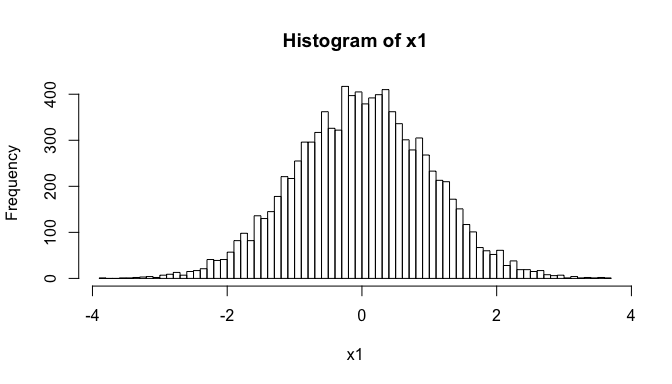
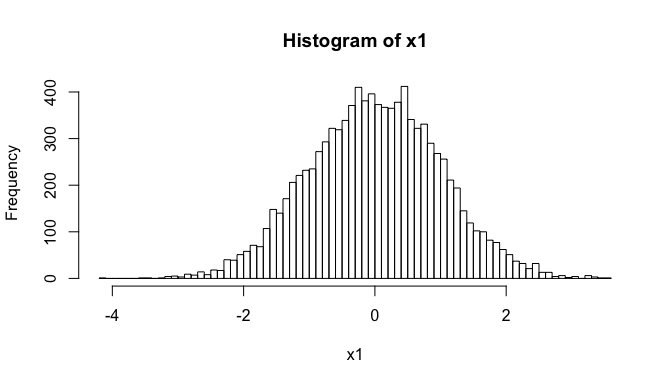
recompiled

diff --git a/stat-R_2020/practicals/R-structures/basic_R-structures.html b/stat-R_2020/practicals/R-structures/basic_R-structures.html
@@ -404,16 +404,16 @@ div.tocify {
 <span id="cb3-9"><a href="#cb3-9"></a><span class="co">## Print the results rounded at 2 decimals</span></span>
 <span id="cb3-10"><a href="#cb3-10"></a><span class="kw">print</span>(<span class="kw">round</span>(matAleatoire, <span class="dt">digits =</span> <span class="dv">2</span>))</span></code></pre></div>
 <pre><code>       [,1]  [,2]  [,3]  [,4]  [,5]  [,6]  [,7]  [,8]  [,9] [,10]
- [1,] -0.44  0.54  2.18 -2.36 -1.03  1.94 -1.52  0.40 -0.58  0.05
- [2,]  3.30  0.71  0.44  0.73 -2.50 -2.07  4.27  0.35  0.91  1.65
- [3,]  0.74  2.00 -2.89  0.21  0.94 -2.46  2.60  1.21  1.62  1.54
- [4,] -1.53  2.77 -2.46 -0.35 -1.86  0.68 -4.18  0.28  0.74  1.09
- [5,] -0.35 -1.09  3.88  1.47  0.75 -0.44  4.76 -4.19  0.20  0.73
- [6,]  2.27 -2.55 -0.80  0.29  1.01  0.23  0.66  4.16  0.87 -2.04
- [7,] -1.92 -2.23  0.21  0.92 -0.15 -0.11 -4.18 -1.08 -0.15  0.92
- [8,] -0.57 -1.67  0.74  0.03  3.29 -0.36 -0.15  4.38 -0.51 -3.14
- [9,]  2.91 -0.82 -1.96 -2.60  4.11 -0.83 -1.50  1.86  0.12 -1.57
-[10,] -3.45 -2.87 -2.18  3.92 -1.66  3.41 -1.76  1.46  2.63 -0.74</code></pre>
+ [1,] -1.41 -0.06  0.19  0.00 -1.73  0.51 -0.83  0.93 -1.42 -0.28
+ [2,] -0.96  2.49  0.26 -3.23  0.02  2.28 -4.24 -1.39  1.28 -2.32
+ [3,]  2.13  0.73  2.05  1.70 -0.35  1.17  0.06 -3.89 -3.70 -2.16
+ [4,]  0.16 -1.49 -2.85  3.69 -1.31 -0.24  3.74  0.65 -1.01  3.66
+ [5,] -1.53  1.86 -0.19  2.09  2.00  0.24  1.13 -3.30  2.76 -1.24
+ [6,] -0.54  4.35  1.07  1.06 -1.89 -2.93  0.73  2.38 -3.67 -0.85
+ [7,] -3.40  1.18  0.09  4.46 -3.21  1.54 -3.74 -1.01  4.50 -0.05
+ [8,]  5.25  2.14 -1.61 -2.81  0.33  1.26  2.44  3.33 -1.56 -0.44
+ [9,]  0.80  0.05  0.67  3.73  1.59  2.17 -2.57 -0.59  0.54  3.60
+[10,] -2.25  4.62  0.55 -3.04 -1.08 -3.81  0.12  4.22 -1.28 -1.28</code></pre>
 </div>
 </div>
 </div>
@@ -454,7 +454,7 @@ Histogram of normally distributed random numbers.
 </div>
 <div class="sourceCode" id="cb8"><pre class="sourceCode r"><code class="sourceCode r"><span id="cb8-1"><a href="#cb8-1"></a><span class="kw">hist</span>(<span class="dt">x =</span> x2, <span class="dt">breaks =</span> <span class="dv">10</span>, </span>
 <span id="cb8-2"><a href="#cb8-2"></a>     <span class="dt">las =</span> <span class="dv">1</span>, </span>
-<span id="cb8-3"><a href="#cb8-3"></a>     <span class="dt">col =</span> <span class="st">&quot;grey&quot;</span>,</span>
+<span id="cb8-3"><a href="#cb8-3"></a>     <span class="dt">col =</span> <span class="st">&quot;cyan&quot;</span>,</span>
 <span id="cb8-4"><a href="#cb8-4"></a>     <span class="dt">main =</span> <span class="st">&quot;Uniformly distributed random numbers&quot;</span>,</span>
 <span id="cb8-5"><a href="#cb8-5"></a>     <span class="dt">xlab =</span> <span class="st">&quot;Value&quot;</span></span>
 <span id="cb8-6"><a href="#cb8-6"></a>     )</span></code></pre></div>

diff --git a/stat-R_2020/practicals/R-structures/basic_R-structures.md b/stat-R_2020/practicals/R-structures/basic_R-structures.md
@@ -138,16 +138,16 @@ print(round(matAleatoire, digits = 2))
 
 ```
        [,1]  [,2]  [,3]  [,4]  [,5]  [,6]  [,7]  [,8]  [,9] [,10]
- [1,] -0.44  0.54  2.18 -2.36 -1.03  1.94 -1.52  0.40 -0.58  0.05
- [2,]  3.30  0.71  0.44  0.73 -2.50 -2.07  4.27  0.35  0.91  1.65
- [3,]  0.74  2.00 -2.89  0.21  0.94 -2.46  2.60  1.21  1.62  1.54
- [4,] -1.53  2.77 -2.46 -0.35 -1.86  0.68 -4.18  0.28  0.74  1.09
- [5,] -0.35 -1.09  3.88  1.47  0.75 -0.44  4.76 -4.19  0.20  0.73
- [6,]  2.27 -2.55 -0.80  0.29  1.01  0.23  0.66  4.16  0.87 -2.04
- [7,] -1.92 -2.23  0.21  0.92 -0.15 -0.11 -4.18 -1.08 -0.15  0.92
- [8,] -0.57 -1.67  0.74  0.03  3.29 -0.36 -0.15  4.38 -0.51 -3.14
- [9,]  2.91 -0.82 -1.96 -2.60  4.11 -0.83 -1.50  1.86  0.12 -1.57
-[10,] -3.45 -2.87 -2.18  3.92 -1.66  3.41 -1.76  1.46  2.63 -0.74
+ [1,] -1.41 -0.06  0.19  0.00 -1.73  0.51 -0.83  0.93 -1.42 -0.28
+ [2,] -0.96  2.49  0.26 -3.23  0.02  2.28 -4.24 -1.39  1.28 -2.32
+ [3,]  2.13  0.73  2.05  1.70 -0.35  1.17  0.06 -3.89 -3.70 -2.16
+ [4,]  0.16 -1.49 -2.85  3.69 -1.31 -0.24  3.74  0.65 -1.01  3.66
+ [5,] -1.53  1.86 -0.19  2.09  2.00  0.24  1.13 -3.30  2.76 -1.24
+ [6,] -0.54  4.35  1.07  1.06 -1.89 -2.93  0.73  2.38 -3.67 -0.85
+ [7,] -3.40  1.18  0.09  4.46 -3.21  1.54 -3.74 -1.01  4.50 -0.05
+ [8,]  5.25  2.14 -1.61 -2.81  0.33  1.26  2.44  3.33 -1.56 -0.44
+ [9,]  0.80  0.05  0.67  3.73  1.59  2.17 -2.57 -0.59  0.54  3.60
+[10,] -2.25  4.62  0.55 -3.04 -1.08 -3.81  0.12  4.22 -1.28 -1.28
 ```
 
 
@@ -209,7 +209,7 @@ hist(x = x1, breaks = 100,
 ```r
 hist(x = x2, breaks = 10, 
      las = 1, 
-     col = "grey",
+     col = "cyan",
      main = "Uniformly distributed random numbers",
      xlab = "Value"
      )
